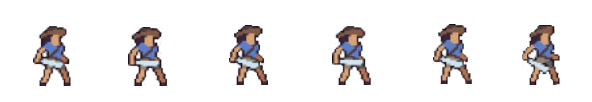
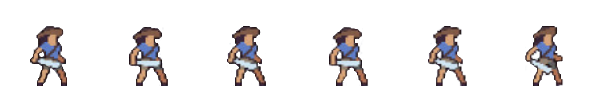
world, time 처리

diff --git a/2DGP GAME_Project/Hero.py b/2DGP GAME_Project/Hero.py
@@ -1,6 +1,10 @@
 from pico2d import*
 
+import game_framework
+import game_world
+
 RD, LD, RU, LU = range(4)
+event_name =  ['RD', 'LD', 'RU', 'LU']
 
 key_event_table = {
     (SDL_KEYDOWN, SDLK_RIGHT) : RD,
@@ -8,6 +12,10 @@ key_event_table = {
     (SDL_KEYUP, SDLK_RIGHT) : RU,
     (SDL_KEYUP, SDLK_LEFT) : LU,
 }
+
+TIME_PER_ACTION = 0.3
+ACTION_PER_TIME = 0.9 / TIME_PER_ACTION
+FRAMES_PER_ACTION = 5
 
 class IDLE:
     @staticmethod
@@ -23,15 +31,15 @@ class IDLE:
 
     @staticmethod
     def do(self): #움직일 수 있도록 프레임 증가
-        self.frame = (self.frame + 1) % 6
+        self.frame = (self.frame + 2.5 * ACTION_PER_TIME * game_framework.frame_time) % 6
         pass
 
     @staticmethod
     def draw(self):
         if self.face_dir == 1: #오른쪽을 바라보고 있는 상태
-            self.Idle_image.clip_draw(int(self.frame) * 100, 0, 100, 100, self.x, self.y, 150, 150)
+            self.Idle_image.clip_draw(int(self.frame) % 6 * 100, 0, 100, 100, self.x, self.y, 150, 150)
         else: #왼쪽
-            self.Idle_image.clip_composite_draw(int(self.frame) * 100, 0, 100, 100, 0, 'h', self.x, self.y, 150, 150)
+            self.Idle_image.clip_composite_draw(int(self.frame) % 6 * 100, 0, 100, 100, 0, 'h', self.x, self.y, 150, 150)
         pass
 
 class RUN:
@@ -51,21 +59,27 @@ class RUN:
         self.face_dir = self.dir
 
     def do(self):
-        self.frame = (self.frame + 1) % 5
-        self.x += self.dir
+        self.frame = (self.frame + FRAMES_PER_ACTION * ACTION_PER_TIME * game_framework.frame_time) % 5
+        self.x += self.dir * RUN_SPEED_PPS * game_framework.frame_time
         self.x = clamp(40, self.x, 1260) #x값을 0과 800사이로 제한
 
-    def draw(self):
+    def draw(self):  #int(boy.frame)
          if self.dir == 1:
-            self.RUN_image.clip_draw(self.frame*100, 0, 100, 100, self.x, self.y, 150, 150)
+            self.RUN_image.clip_draw(int(self.frame) % 5 * 100, 0, 100, 100, self.x, self.y, 150, 150)
          elif self.dir == -1:
-            self.RUN_image.clip_composite_draw(int(self.frame) * 100, 0, 100, 100, 0, 'h', self.x, self.y, 150, 150)
+            self.RUN_image.clip_composite_draw(int(self.frame) % 5 * 100, 0, 100, 100, 0, 'h', self.x, self.y, 150, 150)
 
 
 next_state = {
     IDLE: {RU: RUN, LU: RUN, RD: RUN, LD: RUN},
     RUN: {RU: IDLE, LU: IDLE, LD: IDLE, RD: IDLE}
 }
+
+PIXEL_PER_METER = (10.0 / 0.3)
+RUN_SPEED_KPH = 30
+RUN_SPEED_MPM = RUN_SPEED_KPH * 1000.0 / 60
+RUN_SPEED_MPS = RUN_SPEED_MPM / 60.0
+RUN_SPEED_PPS = RUN_SPEED_MPS * PIXEL_PER_METER
 
 class Hero:
     def add_event(self, event):
@@ -93,7 +107,10 @@ class Hero:
         if self.q : #q에 뭔가 들어있다면,
             event = self.q.pop() # 이벤트를 가져오고
             self.cur_state.exit(self) #현재 상태를 나가고, self에 대한 정보는 전달해주고 ^^
-            self.cur_state = next_state[self.cur_state][event] #다음 상태를 계산
+            try:
+                self.cur_state = next_state[self.cur_state][event]
+            except KeyError:
+                print(f'ERROR: State {self.cur_state.__name__} Event {event_name[event]}')
             self.cur_state.enter(self, event)
 
     def draw(self):

diff --git a/2DGP GAME_Project/play_state.py b/2DGP GAME_Project/play_state.py
@@ -1,13 +1,12 @@
 from pico2d import*
 import game_framework
-import title_state
-import logo_state
+import game_world
 
-from Stage_One import Stage_One
+from Stage_One import StageOne
 from Hero import Hero
 
 main_hero = None
-stage1 = None
+first_stage = None
 running = None
 
 def handle_events():
@@ -19,24 +18,26 @@ def handle_events():
             main_hero.handle_event(event)
 
 def enter():
-    global stage1, main_hero, running
-    stage1 = Stage_One()
-    main_hero = Hero()
+    global main_hero, running
     running = True
+    first_stage = StageOne()
+    main_hero = Hero()
+
+    game_world.add_object(first_stage, 0)
+    game_world.add_object(main_hero, 1)
 
 # 게임 종료 - 객체 소멸
 def exit():
-    global stage1, main_hero
-    del stage1
-    del main_hero
+    game_world.clear()
 
 #게임 객체 업데이트 - 게임 로직
 def update():
-    main_hero.update()
+    for game_object in game_world.all_objects():
+        game_object.update()
 
 def draw_world():
-    stage1.draw()
-    main_hero.draw()
+    for game_object in game_world.all_objects():
+        game_object.draw()
 
 def draw():
     clear_canvas()

diff --git a/2DGP GAME_Project/game_framework.py b/2DGP GAME_Project/game_framework.py
@@ -80,16 +80,27 @@ def quit():
     global running
     running = False
 
+import time
+frame_time = 0.0
 
 def run(start_state):
     global running, stack
     running = True
     stack = [start_state]
     start_state.enter()
+    current_time = time.time()
+
     while (running):
         stack[-1].handle_events()
         stack[-1].update()
         stack[-1].draw()
+        # 시간 처리
+        global frame_time
+        frame_time = time.time() - current_time
+        frame_rate = 1.0 / frame_time
+        current_time += frame_time
+
+
     # repeatedly delete the top of the stack
     while (len(stack) > 0):
         stack[-1].exit()

diff --git a/2DGP GAME_Project/game_world.py b/2DGP GAME_Project/game_world.py
@@ -1,0 +1,26 @@
+objects = [[], []]  #2d에선 그리는 순서가 중요함 -> 이중리스트
+
+def add_object(o, depth):
+    objects[depth].append(o)
+
+def add_objects(ol, depth):
+    objects[depth] += ol
+
+def remove_object(o):
+    for layer in objects:
+        if o in layer:
+            layer.remove(o)
+            del o
+            return
+    raise ValueError('Trying destroy non existing object')
+
+def all_objects():
+    for layer in objects:
+        for o in layer:
+            yield o
+
+def clear():
+    for o in all_objects():
+        del o
+    for layer in objects:
+        layer.clear()

diff --git a/2DGP GAME_Project/Stage_One.py b/2DGP GAME_Project/Stage_One.py
@@ -3,9 +3,12 @@ from pico2d import*
 GAME_X = 1300
 GAME_Y = 600
 
-class Stage_One:
+class StageOne:
     def __init__(self):
         self.stage1 = load_image('stage1_background.png')
 
     def draw(self):
         self.stage1.draw(GAME_X//2, GAME_Y//2)
+
+    def update(self):
+        pass
